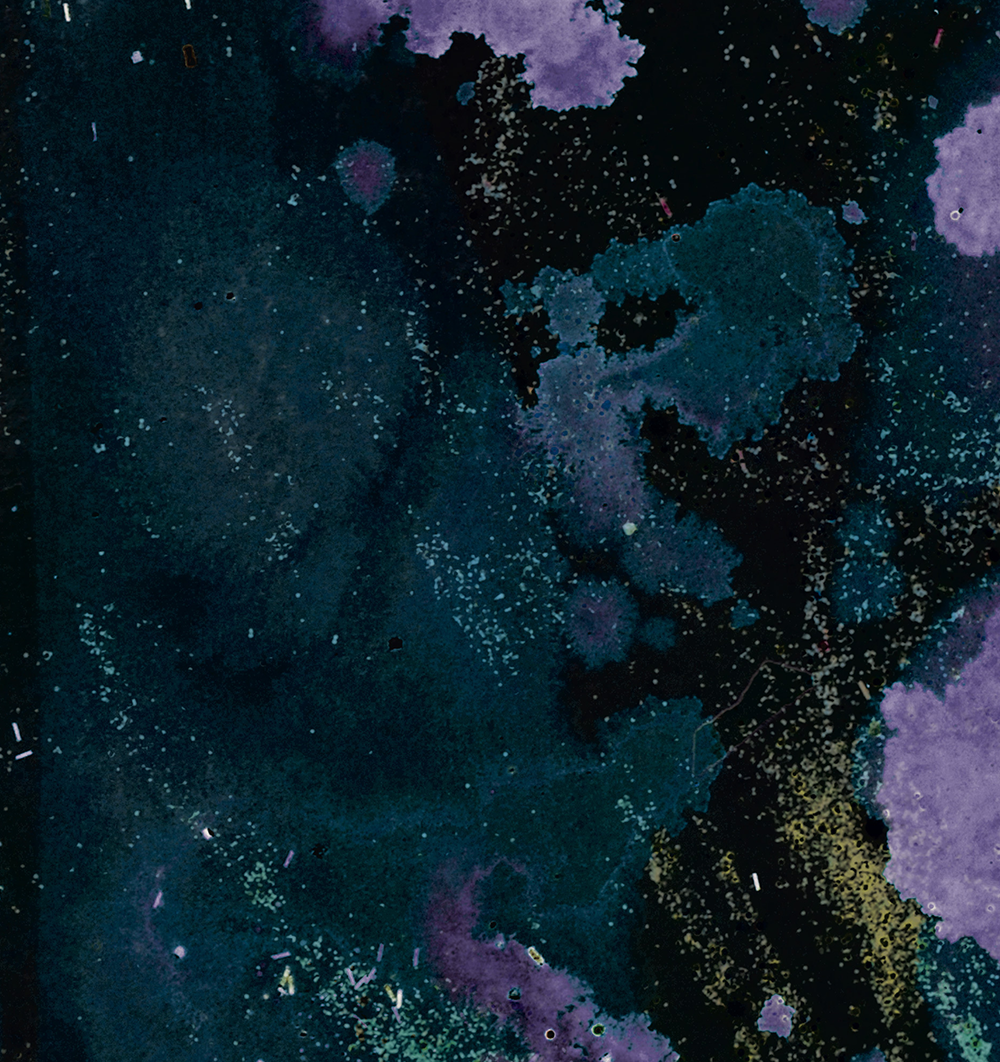
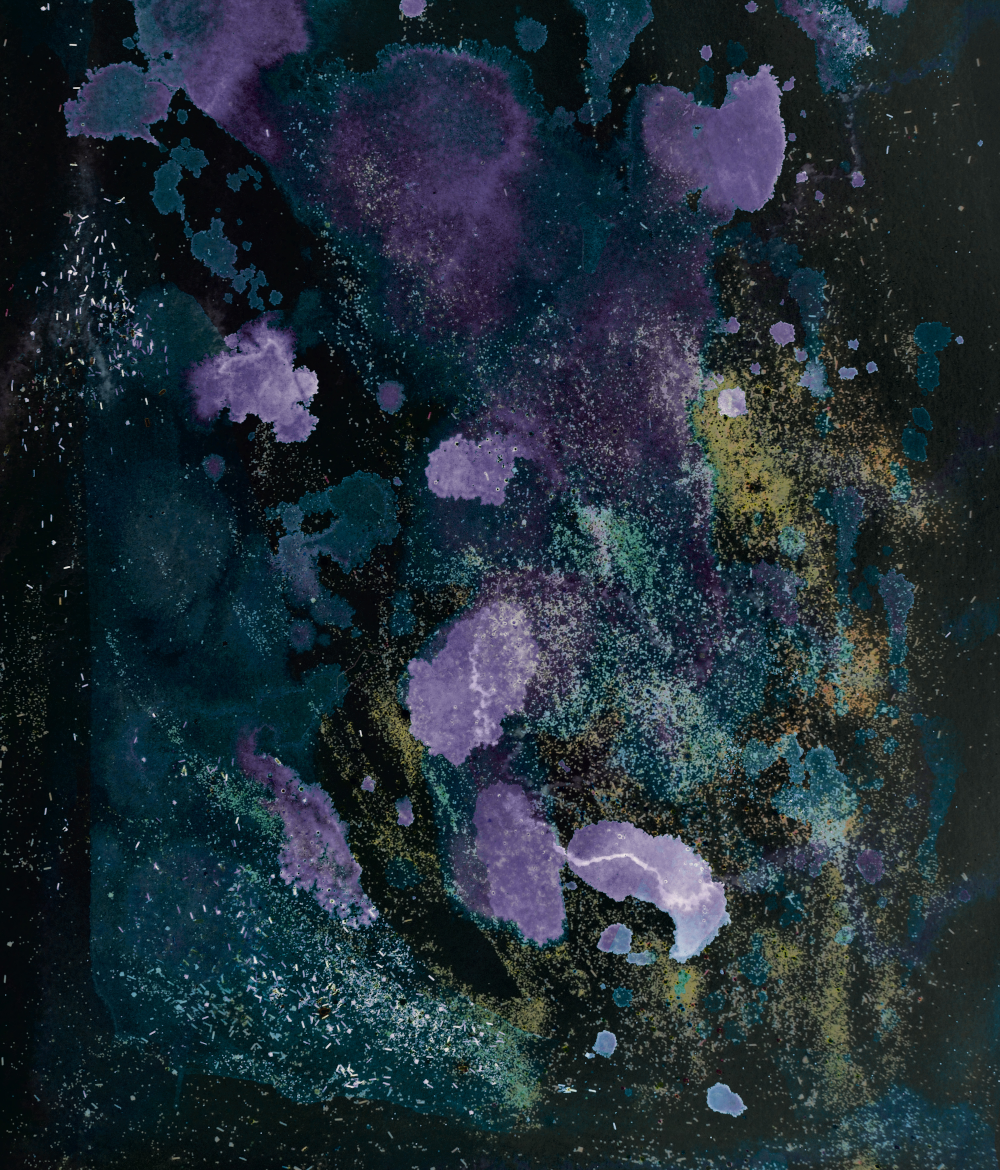
forside

diff --git a/src/assets/css/style.scss b/src/assets/css/style.scss
@@ -18,66 +18,49 @@
 @import "header";
 
 html {
-  background: url(/assets/img/bg-23.png) no-repeat top center fixed;
+  background: url(/assets/img/bg-23-alt.png) no-repeat top center fixed;
   background-size: cover;
   -webkit-tap-highlight-color: transparent;
   min-height:100vh;
 }
 
 html.landing {
-  background: url(/assets/img/bg-23.png) no-repeat top center fixed;
+  background: url(/assets/img/bg-23-alt.png) no-repeat top center fixed;
   background-size: cover;
   height:100vh;
-  h1 {
-    color:$bg;
-    font-size:6vw;
-    font-family: oswald;
-    font-weight: normal;
-    mix-blend-mode: color-dodge;
-    span:nth-of-type(1) {
-      position:absolute;
-      left:33vw;
-      top:18vh;
-    }
-    span:nth-of-type(2) {
-      position:absolute;
-      left:55vw;
-      top:31vh;
-    }
-    span:nth-of-type(3) {
-      position:absolute;
-      left:25vw;
-      top:46vh;
-    }
-    span:nth-of-type(4) {
-      position:absolute;
-      left:43vw;
-      top:61vh;
-    }
+#header {
+  span {
+    display:none;
   }
-  h2 {
-    color:$bg;
-    font-size:4vw;
-    font-family: oswald;
-    font-weight: normal;
-    mix-blend-mode: color-dodge;
+}
+  #datoboks {
     position:absolute;
-    left:13vw;
-    top:71vh;
-  }
-  h3 {
-    color:$title_color;
-    font-size:3vw;
-    font-weight: normal;
-    position:absolute;
-    right:0;
-    bottom:1vh;
-    margin-right:60px;
-    text-align:center;
+    left:60px;
+    bottom:25vh;
+    h2 {
+      color:$title_color;
+      font-size:28px;
+      font-weight: normal;
+      margin-bottom:5px;
+      text-transform: none;
+    }
+    h3 {
+      font-size:17px;
+      color:$title_color_alt;
+      line-height:19px;
+    }
   }
   footer {
     position:absolute;
     bottom:1vh;
+    width:100vw;
+  }
+  img.reflections {
+    position:absolute;
+    left:20vw;
+    top:10vh;
+    max-width: 80vh;
+    z-index: -1;
   }
 }
 
@@ -294,6 +277,9 @@ ul {
   &:nth-last-of-type(1) {
     margin-bottom: 0;
   }
+  ul {
+    justify-content: end;
+  }
   h3 {
     font-size: 26px;
     position: absolute;
@@ -325,6 +311,7 @@ ul {
     margin-right: 30px;
     &.desktop {
       width: min-content;
+      text-align: right;
     }
     img {
       height: 300px;
@@ -332,6 +319,8 @@ ul {
     }
   }
 }
+
+
 .event li div {
   width: 100%;
   padding-bottom: 5px;
@@ -441,10 +430,20 @@ iframe {
     h1 {
       font-size: 10vw;
     }
-    h3 {
-      color:$title_color;
-      font-size:47px;
+    #datoboks {
+      left:30px;
+      text-transform: none;
+      h2 {
+        color:$title_color;
       font-weight: normal;
+      }
+    }
+    img.reflections {
+      position:absolute;
+      left:10vw;
+      top:25vh;
+      max-width: 80vw;
+      z-index: -1;
     } 
   }
   p {
@@ -558,6 +557,6 @@ iframe {
     }
   }
   .partnerlogoer a img {
-    max-width: 30vw;
+    max-width: 13vw;
   }
 }

diff --git a/src/_sass/_header.scss b/src/_sass/_header.scss
@@ -14,6 +14,7 @@
   justify-self: baseline;
   align-self:end;
  font-size:36px;
+ line-height: 46px;;
  br {
  display: block;
  content:"";
@@ -49,7 +50,7 @@
 }
 
 a.menu-item-link, a.menu-item-link:visited {
-  font-size: 36px;
+  font-size: 28px;
   font-family: oswald;
   color: $title-color;
 }
@@ -69,6 +70,7 @@ a.menu-item-link, a.menu-item-link:visited {
   #header {
     text-size-adjust: none;
     font-size:3em;
+    line-height: 1.2em;
     h1 {
       font-size: 50px;
     }

diff --git a/src/_sass/_variables.scss b/src/_sass/_variables.scss
@@ -1,6 +1,6 @@
 $bg: black;
 $title_color: rgb(105,155,127);
-$title_color_alt: rgb(204, 2, 17);
+$title_color_alt: #868648;
 $text: rgb(114,137,187);
 $koncertkirken: rgb(92, 106, 206);
 $musikhuset: rgb(250, 197, 38);
